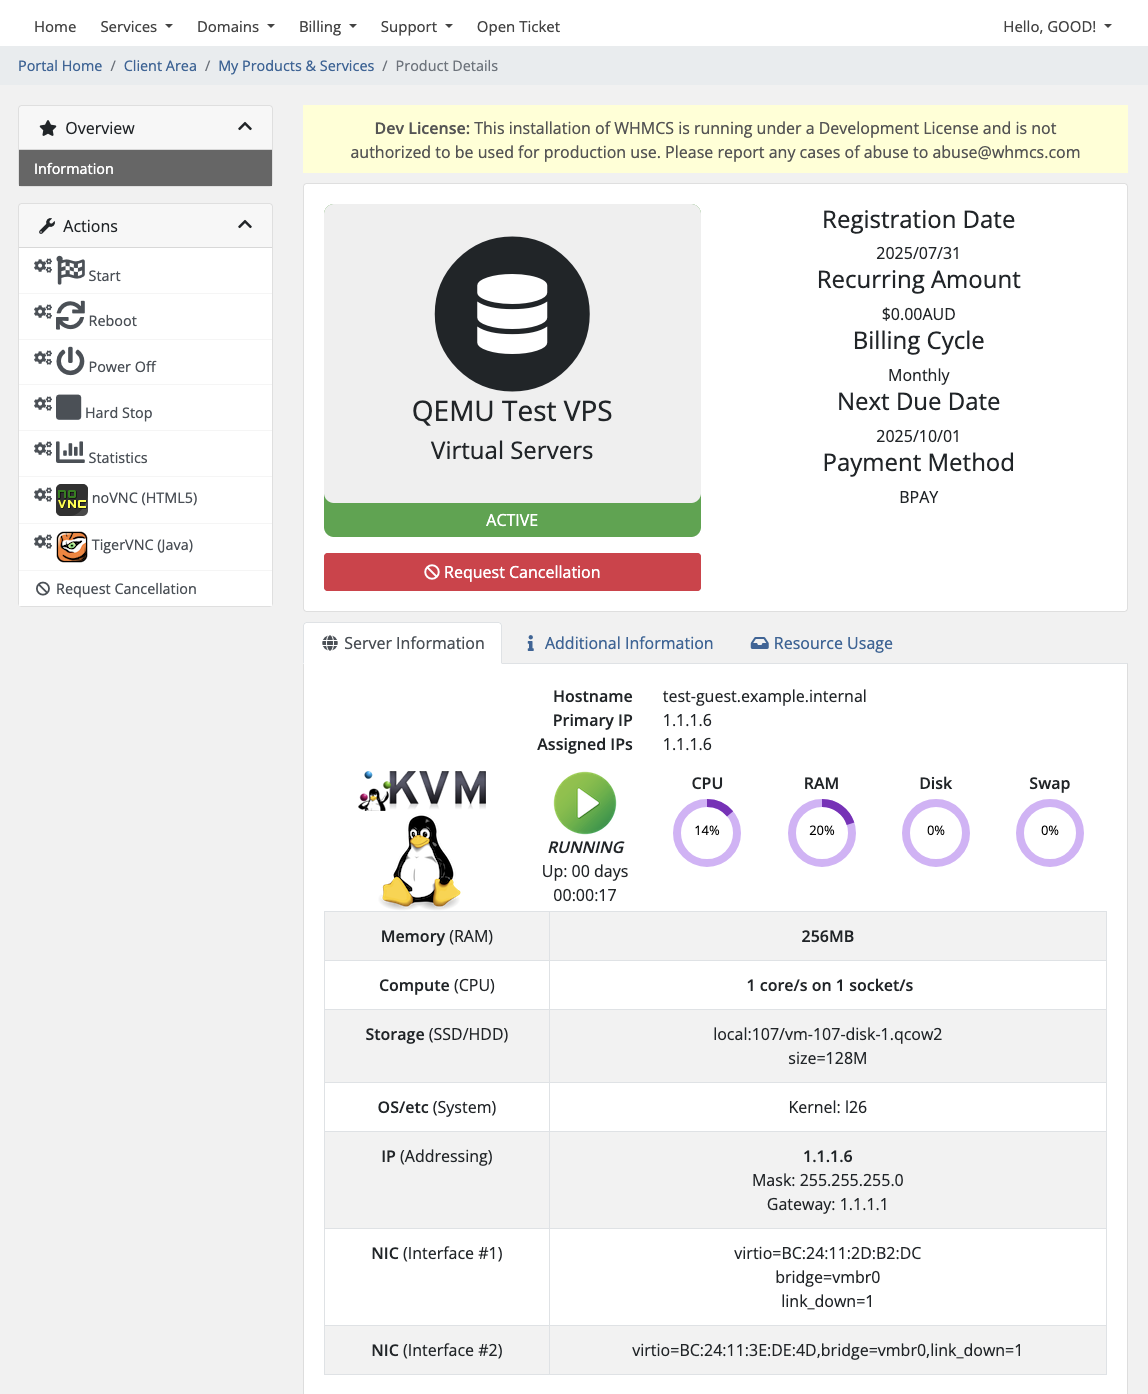
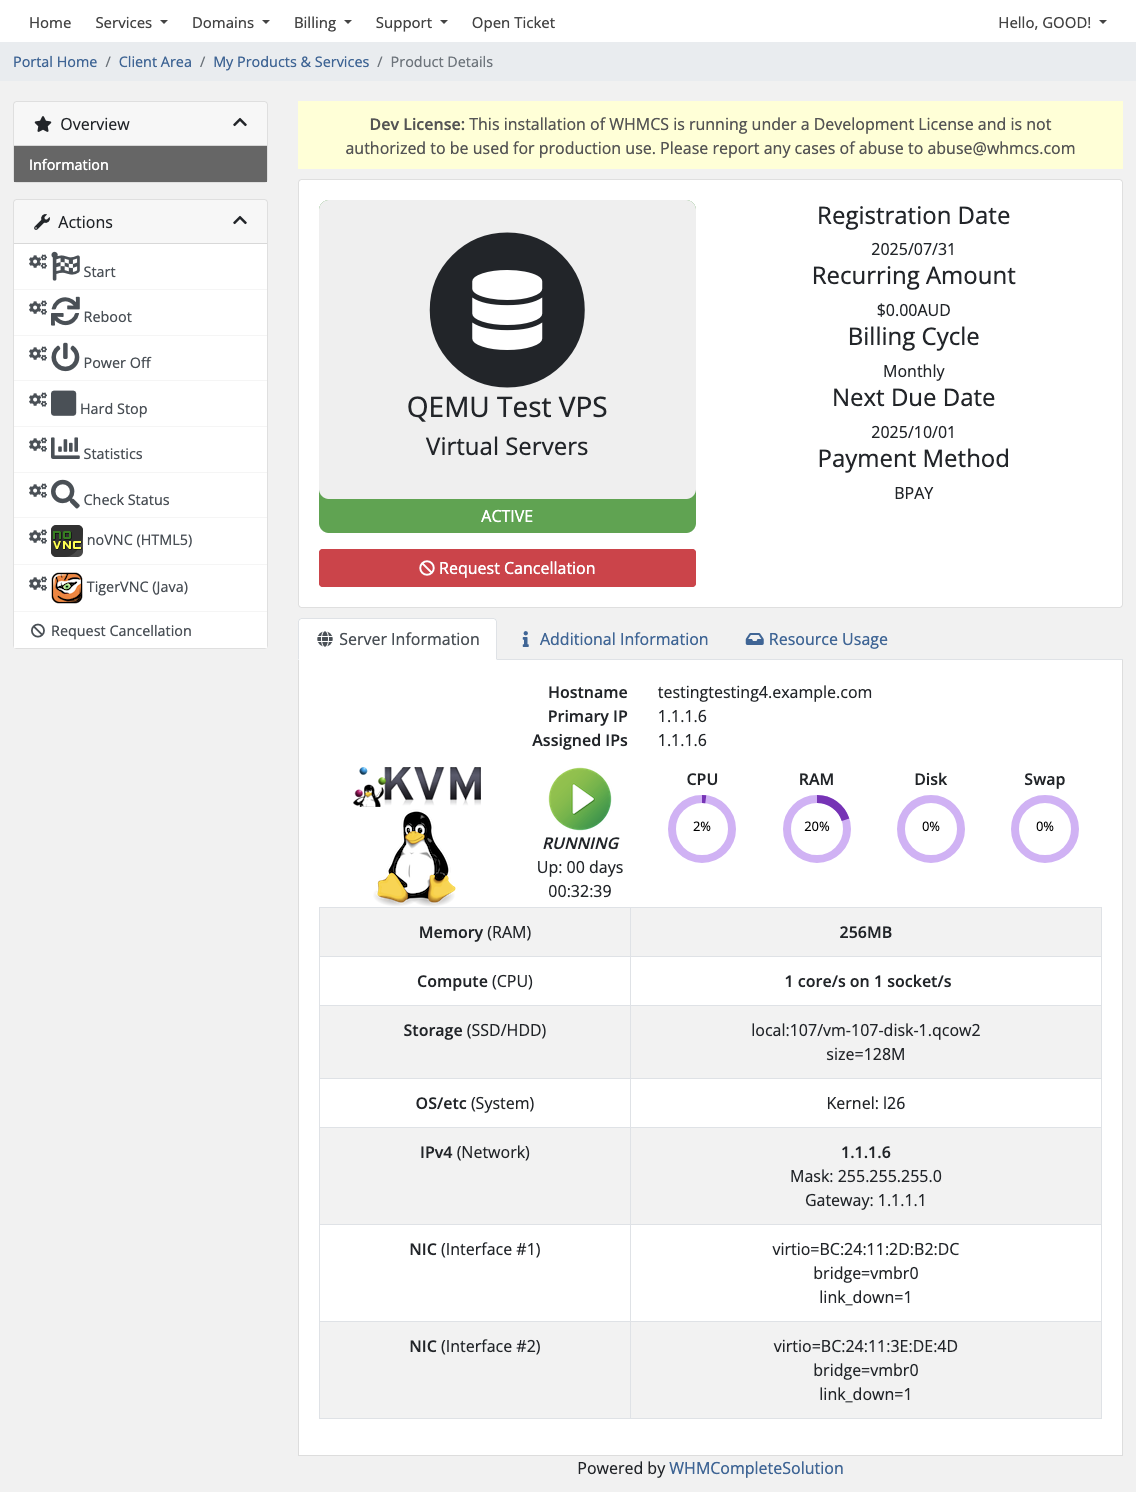
ss: New Action; Green CTA; Tidier Text

diff --git a/CHANGELOG.md b/CHANGELOG.md
@@ -8,8 +8,8 @@ https://github.com/The-Network-Crew/Proxmox-VE-for-WHMCS/milestones
 ### 💅 Polish
 - Max Memory: Ensure you can set more than 128GB (#167)
 - Max CPUs/Cores: Expand column to allow for 100+ (#167)
-- Check Status: Allow for client-driven status checking
 - VNC Prepared: Green background with clearer wording
+- Check Status: Allow for client-driven status checks
 
 ### 🐛 Bug Fix
 - noVNC: Delete PVEAuthCookie before setting it (#167)

diff --git a/README.md b/README.md
@@ -17,7 +17,8 @@
 - Statistics/Graphing is available in the Client Area for services :)
 - Leverage the power of QEMU & LXC with PVE's convenience
 - Import existing VM/CT Guest from Proxmox into WHMCS
-- Specify PVE VMID start & integrate to your schema
+- Choose PVE VMID start & integrate to your schema
+- Supports 128GB+ RAM & 128+ CPU cores per Guest!
 
 https://github.com/The-Network-Crew/Proxmox-VE-for-WHMCS/
 
